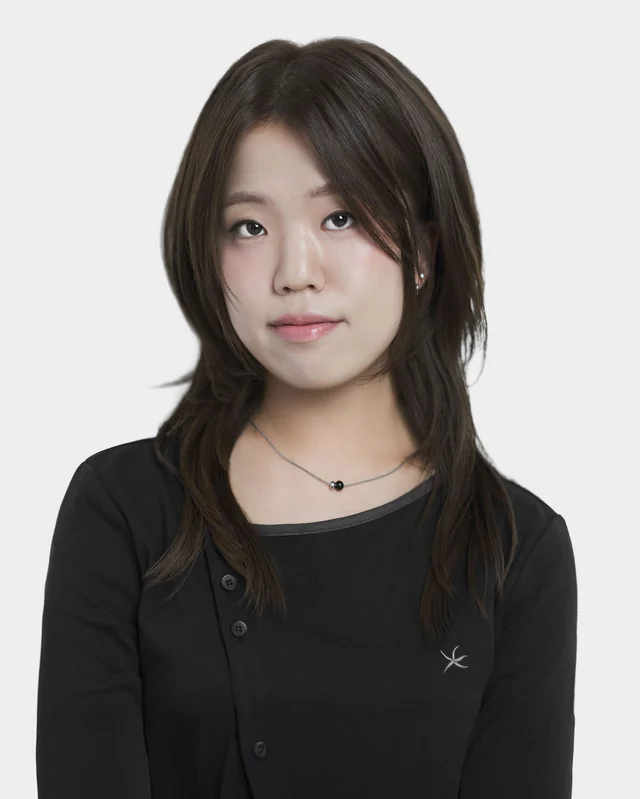
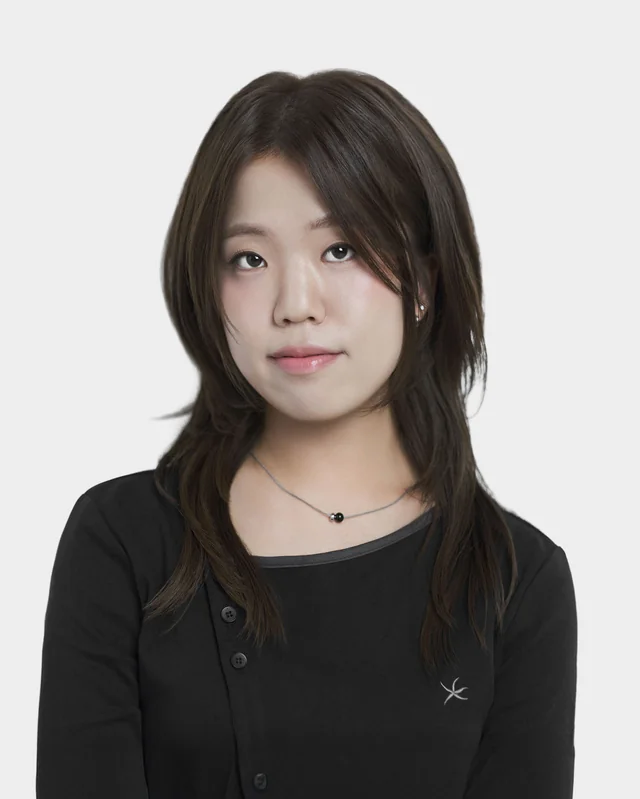
2026 [4]: profile photos framed so head top sits at 9% of the cell (scripts/profile-photos.py, ratio from Figma)

diff --git a/scripts/profile-photos.py b/scripts/profile-photos.py
@@ -1,0 +1,89 @@
+"""졸전자·졸준위 프로필 사진 웹용 사본 만들기.
+
+원본(work/data/designers/front·pose, 한글 파일명)을 칸 비율로 잘라 영문 이름 WebP로 저장.
+자르는 규칙 — 모든 사진이 같은 느낌으로 보이게:
+  - 가로는 가운데.
+  - 머리 꼭대기가 칸 위에서 HEAD_TOP_RATIO(칸 높이의 9%)만큼 떨어지게 세로 위치를 맞춤.
+    Figma [4] 졸준위 시안의 사진들을 재서 정한 값(대부분 8~11%).
+  - 확대는 안 함(사람마다 머리 크기가 달라지지 않게). 원본 위가 모자라면 배경 회색으로 채워 사진을 내림.
+같은 값을 DESIGNERS 페이지 사진에도 씀 — 바꾸려면 여기 숫자만.
+
+실행 (site.2026 폴더에서, Pillow 필요):
+  python3 scripts/profile-photos.py --kind pose --out public/2026/committee --names 장서영,양성은
+  python3 scripts/profile-photos.py --kind pose --out ... --extra 57=../work/지샘\\ 프로필.jpeg  (원본 폴더 밖 임시 사진)
+"""
+import argparse
+import csv
+from pathlib import Path
+
+from PIL import Image
+
+HEAD_TOP_RATIO = 0.09  # 머리 꼭대기 ~ 칸 위 = 칸 높이의 9%
+CELL_RATIO = 198.16 / 158.76  # 칸 세로/가로 (Figma 158.76×198.16)
+DARK = 90  # 이보다 어두운 픽셀을 머리카락으로 봄(배경은 밝은 회색·흰색)
+
+ROOT = Path(__file__).resolve().parent.parent
+DATA = ROOT.parent / "work" / "data" / "designers"
+
+
+def head_top(im: Image.Image) -> int:
+    """위에서부터 내려오며 처음으로 어두운 픽셀(머리카락)이 나오는 줄. 원본 좌표."""
+    small = im.convert("L")
+    scale = 400 / small.width
+    small = small.resize((400, round(small.height * scale)))
+    px = small.load()
+    x0, x1 = 40, 360  # 가장자리 그림자 무시
+    for y in range(small.height):
+        if sum(1 for x in range(x0, x1) if px[x, y] < DARK) >= 3:
+            return round(y / scale)
+    return 0
+
+
+def frame(im: Image.Image, top: int) -> Image.Image:
+    """칸 비율 창: 가로는 원본 폭 그대로(가운데), 머리 꼭대기가 창 높이의 HEAD_TOP_RATIO에 오게.
+    원본 위쪽이 모자라면 원본 맨 윗줄 색(배경 회색)으로 채워 내림 — Figma 시안도 사진을 살짝 내려 배치함.
+    아래가 모자라면(원본이 칸보다 납작) 같은 식으로 아래를 채움."""
+    w, h = im.size
+    ch = round(w * CELL_RATIO)
+    y = round(top - HEAD_TOP_RATIO * ch)
+    canvas = Image.new("RGB", (w, ch), im.getpixel((w // 2, 0)))
+    canvas.paste(im.crop((0, max(0, y), w, min(h, y + ch))), (0, max(0, -y)))
+    return canvas
+
+
+def make(src: Path, dst: Path, width: int) -> None:
+    im = Image.open(src).convert("RGB")
+    top = head_top(im)
+    out = frame(im, top).resize((width, round(width * CELL_RATIO)), Image.LANCZOS)
+    out.save(dst, "WEBP", quality=85, method=6)
+    print(f"{dst.name}  head {top / im.height:.1%} of original -> {HEAD_TOP_RATIO:.0%}  {dst.stat().st_size // 1024}KB")
+
+
+def main() -> None:
+    ap = argparse.ArgumentParser()
+    ap.add_argument("--kind", choices=["front", "pose"], required=True)
+    ap.add_argument("--out", required=True)
+    ap.add_argument("--names", help="쉼표로 구분한 한글 이름 (없으면 전원)")
+    ap.add_argument("--width", type=int, default=640)
+    ap.add_argument("--extra", action="append", default=[], help="번호=원본경로 (원본 폴더에 아직 없는 사람)")
+    a = ap.parse_args()
+
+    rows = list(csv.DictReader(open(DATA / "designers.csv", encoding="utf-8-sig")))
+    names = set(a.names.split(",")) if a.names else None
+    extra = dict(e.split("=", 1) for e in a.extra)
+    out = ROOT / a.out
+    out.mkdir(parents=True, exist_ok=True)
+    for r in rows:
+        if names and r["name"] not in names:
+            continue
+        web = r[f"{a.kind}_web"]
+        if not web:
+            continue
+        src = Path(extra[r["no"]]) if r["no"] in extra else DATA / a.kind / r[f"{a.kind}_file"]
+        if not src.exists():
+            print(f"건너뜀(원본 없음): {r['no']} {r['name']}")
+            continue
+        make(src, out / web, a.width)
+
+
+main()
